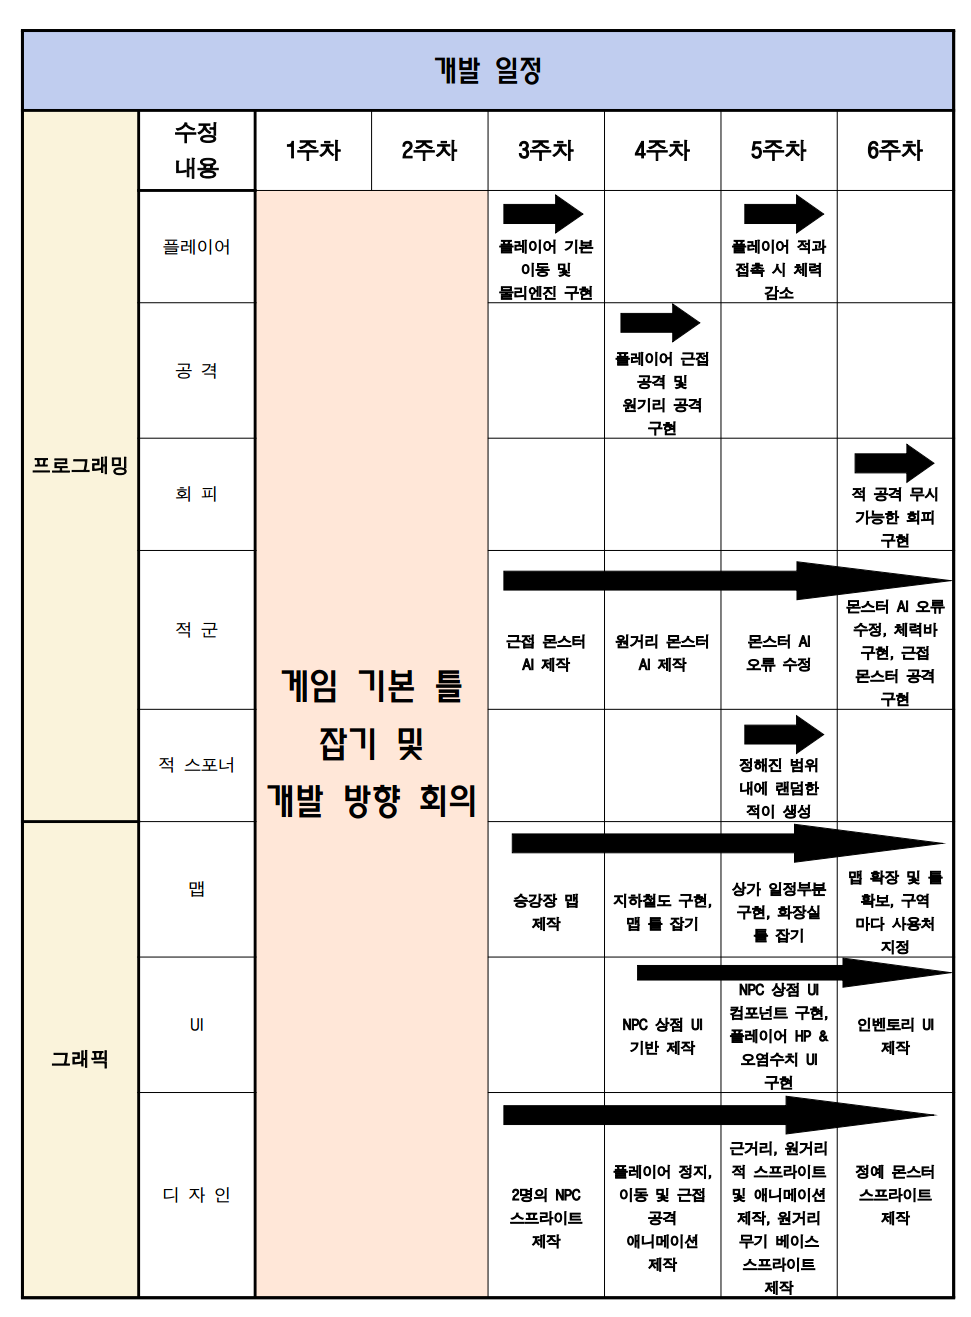
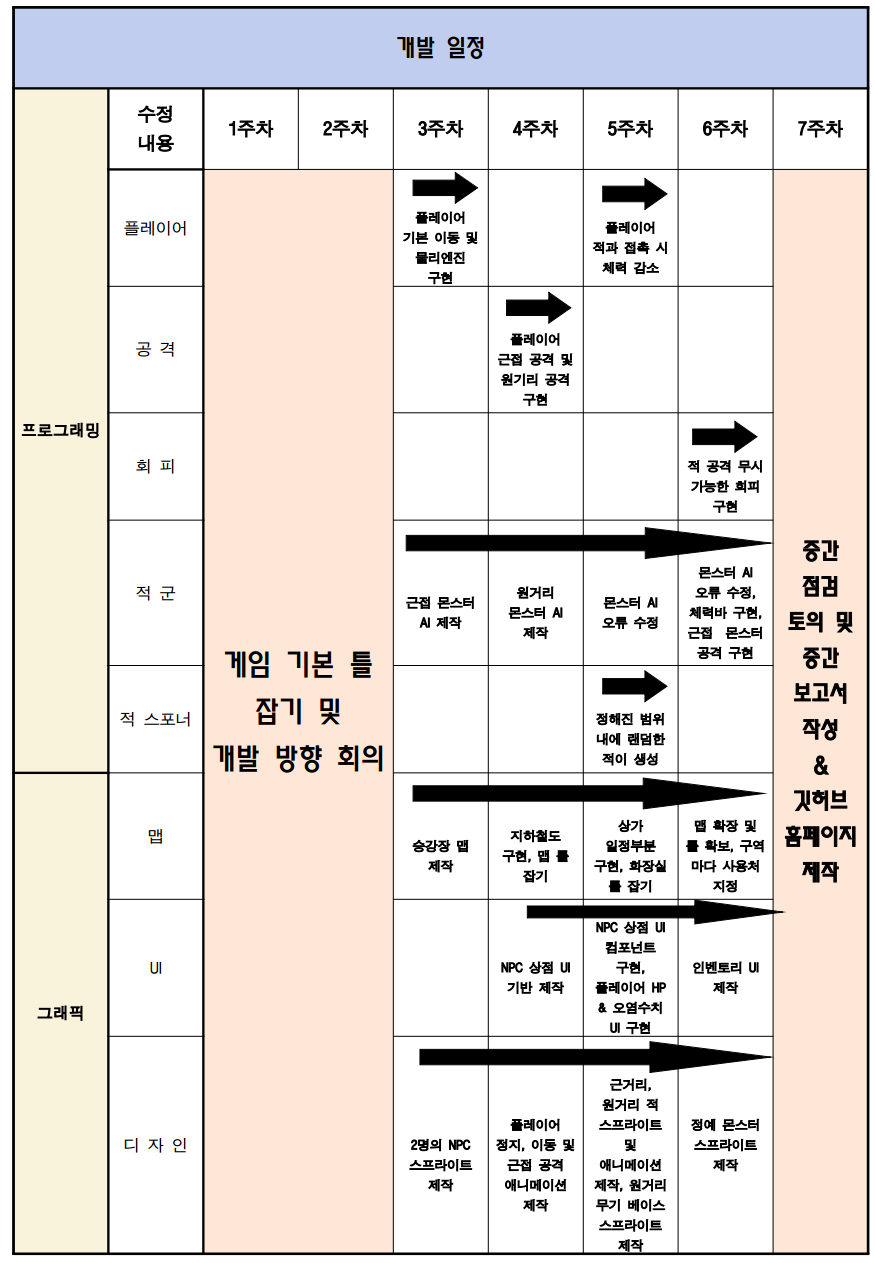
게임 소개 사이트

diff --git a/README.md b/README.md
@@ -28,6 +28,7 @@
     - [4주차](#4주차)
     - [5주차](#5주차)
     - [6주차](#6주차)
+    - [7주차](#7주차)
 
 <br><br><br>
 
@@ -40,7 +41,7 @@
 
 캐쥬얼한 그래픽과 그에 상반되는 어두운 세계관을 갖는 특징이 있다.
 
-<br>
+<br><br>
 
 > # **세계관(배경)**
 ***
@@ -68,19 +69,19 @@
 
 ## **2D 로그라이크 게임**
 
-**2D 도트** 게임으로 **탑뷰** 형식의 게임이며 **로그라이크** 스타일의 게임입니다. 게임의 배경이 되는 지하철에서 플레이어는 여러 곳을 돌아다니며 한정된 자원으로 최대한 오래 살아남는 생존을 목표로 플레이하게 됩니다.
+**2D 도트** 게임으로 **탑뷰** 형식의 게임이며 **로그라이크** 스타일의 게임이다. 게임의 배경이 되는 지하철에서 플레이어는 여러 곳을 돌아다니며 한정된 자원으로 최대한 오래 살아남는 생존을 목표로 플레이하게 된다.
 
 <br>
 
 ## **생존**
 
-본 게임은 플레이어가 지하철에서 다가오는 적의 공격을 피하고 처치하며 위험한 오염 구역에 아무런 대비 없이 들어가면 체력이 감소하는 등 모든 플레이 중에는 **생존**을 염두에 두며 플레이를 해야 합니다.
+본 게임은 플레이어가 지하철에서 다가오는 적의 공격을 피하고 처치하며 위험한 오염 구역에 아무런 대비 없이 들어가면 체력이 감소하는 등 모든 플레이 중에는 **생존**을 염두에 두며 플레이를 해야한다.
 
 <br>
 
 ## **한정된 자원**
 
-기본 무기 또한 단검만 갖고 있어 적의 공격에 주의를 하며 총과 같은 원거리 무기를 얻는다 해도 **한정된 자원**의 문제로 사용해야 할 시기를 잘 생각해야 할 것입니다.
+기본 무기는 단검과 권총만 갖고 있어 적의 공격에 주의를 하며 원거리 무기는 멀리서 적을 공격할 수 있지만 **한정된 자원**의 문제로 사용해야 할 시기를 생각해서 사용해야 한다.
 
 
 <br><br>
@@ -99,6 +100,8 @@
 
 ### 조작 방법
 
+<br>
+
  |입력키|설명|
  |:---:|:---:|
  |WASD|각 방향으로 입력시 플레이어가 해당 방향으로 이동한다.|
@@ -116,11 +119,29 @@
 
  <br>
 
+ ### 일반 적
+
+ <br>
+
  |적 종류|이미지|설명|
  |:---:|:---:|:---:|
  |근접 적|<img src="./img/MeleeEnemy.png" width = 100 heigth = 100>|플레이어가 일정 거리 내에 위치할 경우 근접 공격을 하는 적|
+ |근접 적 바리에이션|후에 이미지 첨부|플레이어가 일정 거리 내에 위치할 경우 근접 공격을 하는 적, 원래 적보다 기본 능력이 더 높다.|
  |원거리 적|<img src="./img/RangeEnemy.png" width =100 heigth = 100>|플레이어를 인식한 후 일정 거리 내에 위치할 경우 원거리 공격을 하고 너무 가까우면 뒤로 물러나는 적|
- |정예 적|<img src="./img/EliteEnemy.png" width =100 heigth = 100>|일반 적보다 체력과 공격력이 높으며 상황에 따라 다양한 공격을 해오는 위험한 적|
+ |원거리 적 바리에이션|후에 이미지 첨부|플레이어를 인식한 후 일정 거리 내에 위치할 경우 원거리 공격을 하고 너무 가까우면 뒤로 물러나는 적, 원래 적보다 기본 능력이 더 높다.|
+
+ <br>
+
+ ### 정예 적
+
+ <br>
+
+ |적 종류|이미지|설명|
+ |:---:|:---:|:---:|
+ |근접 정예 적|<img src="./img/EliteEnemy.png" width =100 heigth = 100>|일반 적보다 기본 능력이 높으며 근접 공격만 하는 정예 적|
+ |근접, 원거리 정예 적|후에 이미지 첨부|일반 적보다 기본 능력이 높으며 상황에 따른 근접, 원거리 공격을 하는 정예 적|
+
+<br>
 
 ## NPC
 
@@ -128,7 +149,7 @@
 
  |NPC 종류|이미지|설명|
  |:---:|:---:|:---:|
- |무기 상인|<img src="./img/ArmsDealer.png" width =100 heigth = 100>|안전지대에 위치해 있으며 플레이어에게 무기 등을 판매한다|
+ |무기 상인|<img src="./img/ArmsDealer.png" width =100 heigth = 100>|안전지대에 위치해 있으며 플레이어에게 무기 등을 판매한다.|
  |의사|<img src="./img/DoctorNPC.png" width =100 heigth = 100>|안전지대에 있으며 체력 회복, 방사능 오염 수치 하락 등 상호작용 가능|
 
 <br><br>
@@ -137,13 +158,21 @@
 
 <br>
 
+ ## 아이템
+ 
+ <br>
 
- |이미지|이름|종류|설명|
- |:---:|:---:|:---:|:---:|
- |<img src="./img/MeleeWeapon.png" width = 30 heigth = 100>|단검|근접 무기|근접한 적을 공격할 수 있는 무기|
- |<img src="./img/Pistol.png">|권총|원거리 무기|멀리 떨어져 있는 적을 조준해서 공격할 수 있는 무기, 1발씩 쏠 수 있다.|
- |<img src="./img/SubMachineGun.png">|기관단총|원거리 무기|멀리 떨어져 있는 적을 조준해서 공격할 수 있는 무기, |
- |<img src="./img/medikit.png" width = 30 heigth = 30>|메디킷|소모성 아이템|플레이어의 체력을 회복시켜주는 1회성 아이템|
+ |이미지|이름|종류|설명|비고|
+ |:---:|:---:|:---:|:---:|:---:|
+ |<img src="./img/MeleeWeapon.png" width = 30 heigth = 100>|단검|근접 무기|근접한 적을 공격 가능한 무기|기본 지급, 짧은 사거리, 빠른 공격속도, 약간 낮은 대미지|
+ |후에 이미지 첨부|도끼|근접 무기|근접한 적을 공격 가능한 무기|드랍 또는 특수 획득 가능, 중간 사거리, 낮은 공격 속도, 높은 대미지|
+ |후에 이미지 첨부|방망이|근접 무기|근접한 적을 공격 가능한 무기|드랍 획득 가능, 넓은 사거리, 약간 낮은 공격 속도, 약간 높은 대미지|
+ |후에 이미지 첨부|프라이팬|근접 무기|근접한 적을 공격 가능한 무기, 공격시 탱탱 소리가 난다.|거래 획득 가능, 짧은 사거리, 빠른 공격 속도, 보통 대미지|
+ |<img src="./img/Pistol.png">|권총|원거리 무기|멀리 떨어져 있는 적을 조준해서 공격할 수 있는 무기|기본 지급, 보통 공격속도, 낮은 대미지, 1발씩 발사된다.|
+ |<img src="./img/SubMachineGun.png">|기관단총|원거리 무기|멀리 떨어져 있는 적을 조준해서 공격할 수 있는 무기|드랍 획득 가능, 빠른 공격속도, 낮은 대미지, 탄환이 탄튐이 꽤 있으며, 총알이 연속적으로 발사된다.|
+ |후에 이미지 첨부|돌격소총|원거리 무기|멀리 떨어져 있는 적을 조준해서 공격할 수 있는 무기|드랍 획득 가능, 약간 빠른 공격속도, 보통 대미지, 탄튐이 약간 있으며 3발씩 발사된다.|
+ |후에 이미지 첨부|산탄총|원거리 무기|약간 떨어져 있는 적들을 공격 가능한 무기|특수 획득 가능, 느린 공격 속도, 높은 대미지, 잘 맞추면 대미지가 높음, 한번에 여러발의 탄약 사용한다.|
+ |<img src="./img/medikit.png" width = 30 heigth = 30>|메디킷|소모성 아이템|1회성 아이템으로 플레이어의 체력을 회복시킨다.|
 
 <br>
 
@@ -153,62 +182,72 @@
 
 **1.플레이어**
 
+<br>
+
 |행동|설명|
 |:---:|:---:|
 |이동|입력한 방향키에 따라 이동|
-|근접 공격|마우스 좌클릭을 했을 경우 캐릭터가 바라보고 있는 방향으로 현재 장착한 근접 무기의 공격이 이루어짐|
-|원거리 공격|마우스 우클릭을 했을 경우 클릭 위치로 현재 장착한 원거리 무기의 공격이 이루어짐|
-|회피|Space바를 누를 경우 플레이어가 누른 방향키로 구르기 모션이 이루어짐. 해당 모션 동안 캐릭터는 무적 시간을 갖는다|
+|근접 공격|마우스 좌클릭을 했을 경우 캐릭터가 바라보고 있는 방향으로 현재 장착한 근접 무기의 공격이 이루어진다.|
+|원거리 공격|마우스 우클릭을 했을 경우 클릭 위치로 현재 장착한 원거리 무기의 공격이 이루어진다.|
+|회피|Space바를 누를 경우 플레이어가 누른 방향키로 구르기 모션이 이루어짐. 해당 모션 동안 캐릭터는 무적 시간을 갖는다.|
 |회복|메디킷을 갖고 있는 상태에서 H키를 누르면 체력이 회복한다.|
 
-<br><br>
+<br>
 
 **2.적**
+
+<br>
 
 |행동|설명|
 |:---:|:---:|
 |이동|일정 범위 내에 플레이어가 위치할 경우 플레이어 위치로 이동, 만약 일정 범위 내에 플레이어가 없을 경우 주변을 맴 돈다.|
 |공격|플레이어가 일정 범위 내에 위치할 경우 일정 주기마다 공격이 이루어진다.|
 
+<br>
+
+## 파라미터 분석
 
 <br>
 
-### 파라미터 분석
+**1.플레이어**
 
 <br>
-
-플레이어
 
 |속성|속성값|설명|비고|
 |:---:|:---:|:---:|:---:|
-|이동 방향|Vector2|입력한 방향키의 방향에 따라 플레이어가 이동|현재 위치 벡터 * 이동속도|
-|이동 속도|8f|플레이어의 이동 속도||
+|이동 방향|Vector2|입력한 방향키의 방향에 따라 플레이어가 이동한다.|현재 위치 벡터 * 이동속도|
+|이동 속도|8f|플레이어의 이동 속도를 나타내는 값이다.||
 |공격 주기|1f|공격이 이루어지고 다시 공격을 할때까지 걸리는 시간||
-|공격 오브젝트|GameObejct|공격 버튼을 눌렀을 때 공격 명중 여부를 판단하는 오브젝트|근접 공격이면 정해진 위치에 오브젝트가 생기며 원거리 공격이면 투사체가 날아간다|
+|공격 오브젝트|GameObejct|공격 버튼을 눌렀을 때 공격 명중 여부를 판단하는 오브젝트|근접 공격이면 정해진 위치에 오브젝트가 생기며 원거리 공격이면 투사체가 날아간다.|
 |피격 주기|0.3f|피격 됐을 경우 계속해서 피격이 이루어지지 않게 막아주는 속성||
 |회피 주기|1.8f|한 번 회피를 실행한 다음 다시 회피를 할때까지 걸리는 시간||
-|체력|10f|캐릭터의 체력을 나타내며 0이 될 경우 게임 오버가 된다||
+|체력|10|캐릭터의 체력을 나타내며 0이 될 경우 게임 오버가 된다.||
 |오염 수치|0f|오염 구역에 들어갈 경우 수치가 상승하며 100이 될 경우 서서히 체력이 감소한다||
-
 
 <br>
 
-적
+**2.적**
+
+<br>
 
 |속성|속성값|설명|비고|
 |:---:|:---:|:---:|:---:|
 |이동 방향|Vector3|적이 이동할 방향|목표 위치 벡터 - 적의 현재 위치 벡터|
-|체력|25~50f|적의 체력 수치|적 타입의 따라 체력 수치가 다름|
-|속도||적의 이동 속도 수치|적 타입의 따라 이동속도 수치가 다름|
+|체력|25~50f|적의 체력 수치|적 타입의 따라 체력 수치가 다르다.|
+|속도|25f|적의 이동 속도 수치|적 타입의 따라 이동속도 수치가 다르다.|
+|도망 속도|30f|적의 도망 이동 속도 수치|원거리 적이 플레이어와 너무 가까워졌을 경우 뒤로 물러나는 속도 수치다.|
 |공격 주기|3f|공격이 이루어지고 다시 공격을 할때까지 걸리는 시간||
-|공격 오브젝트|GameObject|적이 공격할 때 공격 명중 여부를 판단하는 오브젝트|원거리 적일 경우 투사체가 날아가며 근접 적일 경우 정해진 위치에 오브젝트 생성|
-
-
-### 상태 분석
+|공격 오브젝트|GameObject|적이 공격할 때 공격 명중 여부를 판단하는 오브젝트|원거리 적일 경우 투사체가 날아가며 근접 적일 경우 정해진 위치에 오브젝트 생성한다.|
 
 <br>
 
-플레이어
+## 상태 분석
+
+<br>
+
+**1.플레이어**
+
+<br>
 
 |현상태|전이상태|전이조건|  
 |:---:|:---:|:---:|
@@ -223,7 +262,9 @@
 
 <br>
 
-적
+**2.적**
+
+<br>
 
 |현상태|전이상태|전이조건|  
 |:---:|:---:|:---:|
@@ -231,19 +272,28 @@
 |추적|공격|현재 플레이어가 일정 범위 안에 있을 경우 |
 |공격|대기|공격이 이루어지고 계속해서 공격이 이루어지지 않도록 대기 상태로 변환|
 |추적|정찰|플레이어가 일정 범위 밖으로 벗어났을 경우|
+|일반|광폭화|특정 시간대 밤이 되었을 경우|
 |생존|사망|적의 체력이 0이 되었을 경우|  
 
-<br><br>
+<br>
 
-### 게임 규칙
-
-이거 이외 생각나는게 있으면 더 적기
+## 게임 규칙
 
 - 플레이어는 해당 맵을 탐사해나가면서 적을 물리친다.
+
 - 마우스 왼쪽 클릭을 할 경우 근접 공격, 오른쪽 클릭을 할 경우 원거리 공격이 이루어진다.
+
+- 플레이어는 지급되는 기본 근접, 원거리 무기를 갖고 있으며 다른 아이템은 드랍 또는 특수 획득으로 얻게 된다.
+
+- 플레이어는 기본적으로 근거리 무기, 원거리 무기를 각각 하나씩만 보유 가능하며, 새로운 무기를 얻으면 기존 갖고 있는 무기는 버려진다.
+
 - 오염 구역에 보조적인 아이템이 없이 들어갈 경우 플레이어의 오염 수치가 상승한다.
+
 - 오염 수치가 가득 찰 경우 플레이어의 체력은 서서히 감소한다.
+
 - 플레이어의 체력이 0이 될 경우 게임 오버가 된다.
+
+- 시간이 흐르면 낮과 밤이 계속 바뀌며 특정 날 밤이 되면 적의 기본 능력이 높아지고, 적의 스폰 빈도가 활발해진다.
 
 <br><br>
 
@@ -269,47 +319,75 @@
 
 ### UI
 
-4. 플레이어의 체력바와 방사능 오염 수치를 나타내는 UI 구현.
+4. 화면 좌측 상단에는 플레이어의 체력바와 방사능 오염 수치를 나타내는 UI 구현한다.
 
-5. I키를 누르면 인벤토리 UI가 열리며 다시 I키를 누를 경우 인벤토리 UI가 닫힌다.
+5. 화면 좌측 하단에는 ...을 표시하는 UI, 우측 하단에는 ,,,을 표시하는 UI가 있다.
 
-6. F키를 누르면 상점 UI가 열리며 그 상태에서 Z키를 누르면 상점 UI가 닫힌다.
+6. I키를 누르면 인벤토리 UI가 열리며 다시 I키를 누를 경우 인벤토리 UI가 닫힌다. 인벤토리 UI는 퀘스트 아이템을 확인할 수 있다.
 
-7. 적의 상단에는 남은 체력을 표시해주는 체력바가 존재하여 남은 체력을 알 수 있다.
+7. F키를 누르면 상점 UI가 열리며 그 상태에서 Z키를 누르면 상점 UI가 닫힌다.
+
+8. 적의 상단에는 남은 체력을 표시해주는 체력바가 존재하여 남은 체력을 알 수 있다.
 
 <br>
 
 ### 게임 플레이
 
-8. 플레이어는 이동한 방향키에 따라 움직인다. 카메라는 플레이어를 따라간다.
+9. 플레이어는 이동한 방향키에 따라 움직인다. 카메라는 플레이어를 따라간다.
 
-9. 플레이어는 공격을 받거나 방사능 오염 수치가 최대일 경우 체력이 감소한다.
+10. 플레이어는 공격을 받거나 방사능 오염 수치가 최대일 경우 체력이 감소한다.
 
-10. 방사능 오염 수치는 오염 구역 진입 시 조금씩 상승한다.
+11. 방사능 오염 수치는 오염 구역 진입 시 조금씩 상승한다.
 
-11. 체력과 방사능 오염 수치는 소모성 아이템을 이용해 회복이 가능하다.
+12. 체력과 방사능 오염 수치는 소모성 아이템을 이용해 회복이 가능하다.
 
-12. 특정 아이템을 이용하여면 방사능 오염 수치 상승을 막아준다.
+13. 특정 아이템을 이용하여면 방사능 오염 수치 상승을 막아준다.
 
-13. 쿨타임이 있는 구르기 기능을 구현해 일정시간 동안 적의 공격을 무시한다.
+14. 쿨타임이 있는 구르기 기능을 구현해 일정시간 동안 적의 공격을 무시한다.
 
-14. 플레이어는 마우스 좌클릭을 할 경우 근접 공격, 우클릭을 할 경우 원거리 공격이 이루어진다.
+15. 플레이어는 마우스 좌클릭을 할 경우 근접 공격, 우클릭을 할 경우 원거리 공격이 이루어진다.
 
-15. 원거리 공격은 마우스 좌표에 따라 목표 위치가 달라진다.
+16. 원거리 공격은 마우스 좌표에 따라 목표 위치가 달라진다.
 
-16. 메디킷을 보유한 상태에서 H키를 누르면 체력이 회복된다.
+17. 메디킷을 보유한 상태에서 H키를 누르면 체력이 회복된다.
 
-17. 근접 무기는 아무 제약 없이 사용 가능하지만, 총기의 경우 소모성 아이템이 필요하다.
+18. 근접 무기는 아무 제약 없이 사용 가능하지만, 총기의 경우 소모성 아이템이 필요하다.
 
-18. 적은 일정 범위 내를 배회하며 플레이어가 일정 범위 내에 존재할 경우 플레이어를 추적한다.
+19. 적은 일정 범위 내를 배회하며 플레이어가 일정 범위 내에 존재할 경우 플레이어를 추적한다.
 
-19. 적과 플레이어의 거리가 일정 수치로 좁혀질 경우 적은 공격한다.
+20. 적과 플레이어의 거리가 일정 수치로 좁혀질 경우 적은 공격한다.
 
-20. 적을 일정 주기마다 정해진 수만큼 랜덤하게 스폰 시켜주는 스포너 오브젝트가 있다.
+21. 적을 일정 주기마다 정해진 수만큼 랜덤하게 스폰 시켜주는 스포너 오브젝트가 있다.
 
-21. 생존자 구역에 거래가 가능한 NPC가 있으며 소모성 아이템 거래가 가능하다.
+22. 적은 크게 일반 적과 정예 적으로 나눌 수 있으며 또 다시 일반적은 근접, 원거리 적으로 나눌 수 있다.
 
-22. 맵의 각 구역을 일반 구역, 생존자 구역, 방사능 오염 구역, 돌연변이 출현 구역으로 나눈다.
+23. 정예 적은 일반 적과 다르게 스폰 주기가 길지만 기본 능력이 높아 상대하기 까다롭다.
+
+24. 시간이 지나며 낮 밤 시간이 바뀌며 이와 같은 변화로 적의 기본 능력이 상승한다.
+
+25. 생존자 구역에 거래가 가능한 NPC가 있으며 소모성 아이템 거래가 가능하다.
+
+26. 맵의 각 구역을 일반 구역, 생존자 구역, 방사능 오염 구역, 돌연변이 출현 구역으로 나눈다.
+
+27. 원거리 무기는 사용하려면 기본적으로 탄약이 필요하며 탄약이 없을 경우 총알이 나가지 않는다.
+
+28. 권총은 기본 지급 원거리 무기이며, 총알이 한 발씩 나간다.
+
+29. 기관단총은 드랍으로 얻을 수 있는 무기이며, 탄튐이 꽤 있다.
+
+30. 돌격소총은 드랍으로 얻을 수 있는 무기이며, 탄튐이 약간 있다.
+
+31. 산탄총은 특수 획득으로 얻을 수 있는 무기이며, 한번에 여러 발의 탄약을 사용한다.
+
+32. 단검은 기본지급 무기이며, 사정 거리가 짧으며, 빠른 공격 속도와 약간 낮은 대미지가 특징이다.
+
+33. 도끼는 드랍과 특수 획득 무기이며, 사정 거리가 방망이와 단검의 중간이며, 낮은 공격 속도와 높은 대미지가 특징이다.
+
+34. 방망이는 드랍으로 얻을 수 있는 무기이며, 사정 거리가 넓으며, 약간 낮은 공격 속도와 약간 높은 대미지가 특징이다.
+
+35. 프라이팬은 거래로 얻을 수 있는 무기이며, 빠른 공격 속도와 보통의 대미지, 적을 공격했을 경우 특수 소리가 난다.
+
+36. 새로운 무기를 얻을 경우 기존의 소지하고 있는 무기는 버려지게 된다.
 
 <br>
 
@@ -452,3 +530,13 @@
 |**맵**|맵 확장 및 틀 확보, 구역 마다 사용처 지정|
 |**UI**|인벤토리 UI 제작, 적 체력바 구현|
 |**스프라이트 디자인**|정예 몬스터 스프라이트 제작|
+
+<br>
+
+***
+
+## 7주차
+
+<br>
+
+**캡스톤 중간 점검 토의 및 중간 보고서**를 작성하였으며, 깃허브 홈페이지에서 **게임 소개 홈페이지**를 제작했다.
